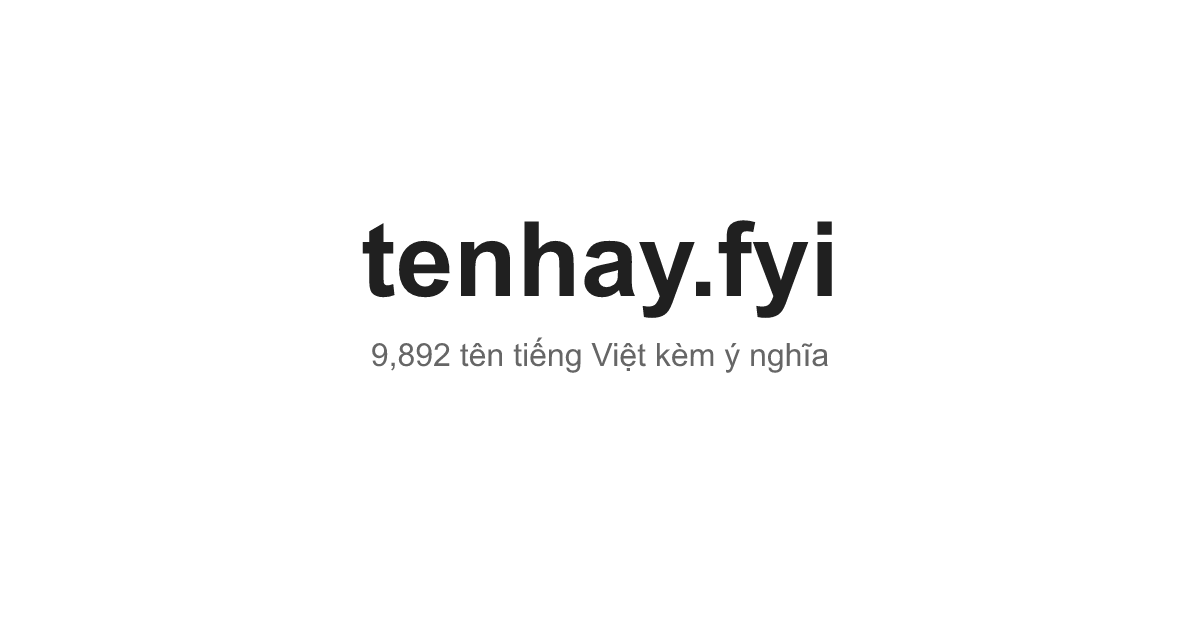
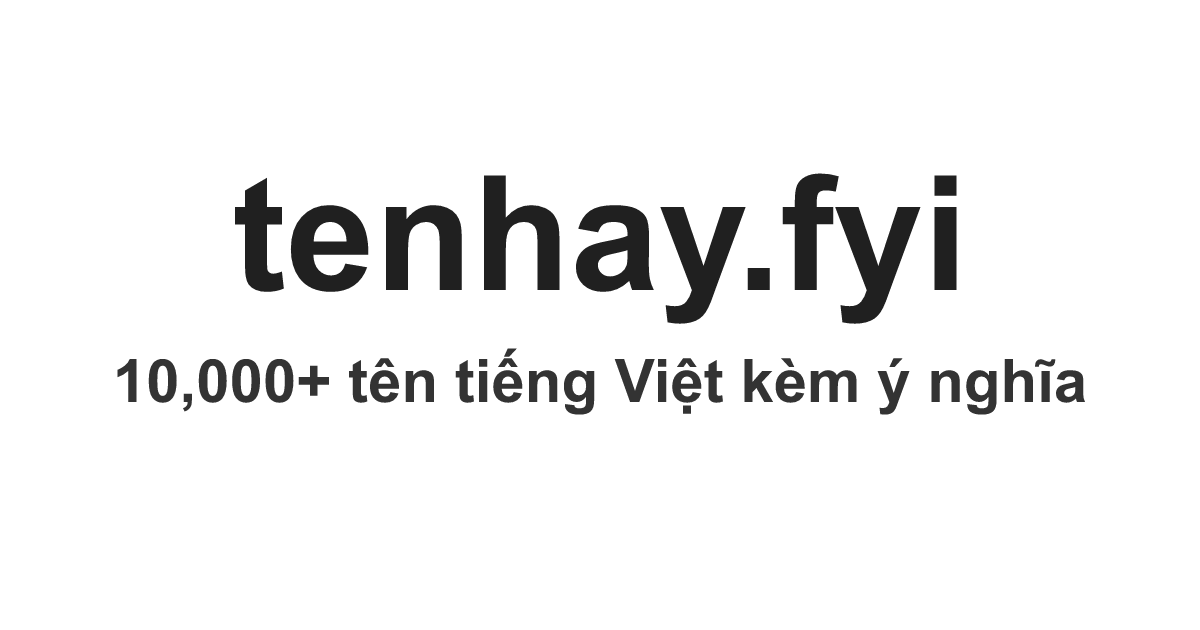
Simplify header and enlarge homepage share image

Changed region(s): [[0.185, 0.2714, 0.8017, 0.5127], [0.0925, 0.5429, 0.925, 0.6635]]

diff --git a/public/index.html b/public/index.html
@@ -13,17 +13,17 @@
   <meta property="og:type" content="website">
   <meta property="og:locale" content="vi_VN">
   <meta property="og:url" content="https://tenhay.fyi/">
-  <meta property="og:image" content="https://tenhay.fyi/share.png">
-  <meta property="og:image:secure_url" content="https://tenhay.fyi/share.png">
+  <meta property="og:image" content="https://tenhay.fyi/share.png?v=2">
+  <meta property="og:image:secure_url" content="https://tenhay.fyi/share.png?v=2">
   <meta property="og:image:type" content="image/png">
   <meta property="og:image:width" content="1200">
   <meta property="og:image:height" content="630">
-  <meta property="og:image:alt" content="tenhay.fyi và dòng “9,892 tên tiếng Việt kèm ý nghĩa” trên nền trắng.">
+  <meta property="og:image:alt" content="tenhay.fyi và dòng “10,000+ tên tiếng Việt kèm ý nghĩa” trên nền trắng.">
   <meta name="twitter:card" content="summary_large_image">
   <meta name="twitter:title" content="tenhay.fyi">
   <meta name="twitter:description" content="Tra cứu tên tiếng Việt và ý nghĩa. Ghép với họ, lọc và lưu tên yêu thích.">
-  <meta name="twitter:image" content="https://tenhay.fyi/share.png">
-  <meta name="twitter:image:alt" content="tenhay.fyi và dòng “9,892 tên tiếng Việt kèm ý nghĩa” trên nền trắng.">
+  <meta name="twitter:image" content="https://tenhay.fyi/share.png?v=2">
+  <meta name="twitter:image:alt" content="tenhay.fyi và dòng “10,000+ tên tiếng Việt kèm ý nghĩa” trên nền trắng.">
   <meta name="theme-color" content="#ffffff" media="(prefers-color-scheme: light)">
   <meta name="theme-color" content="#171717" media="(prefers-color-scheme: dark)">
   <meta name="application-name" content="tenhay.fyi">
@@ -33,14 +33,18 @@
   <link rel="icon" href="./favicon.svg" type="image/svg+xml" sizes="any">
   <link rel="apple-touch-icon" href="./apple-touch-icon.png" sizes="180x180">
   <link rel="manifest" href="./site.webmanifest">
-  <link rel="stylesheet" href="./style.css?v=28">
-  <script type="module" src="./app.mjs?v=28"></script>
+  <link rel="stylesheet" href="./style.css?v=30">
+  <script type="module" src="./app.mjs?v=30"></script>
 </head>
 <body>
   <a class="skip" href="#results">Đến danh sách tên</a>
   <div class="page">
     <header>
-      <div class="heading"><h1>tenhay.fyi</h1><span class="total"><span id="total-names">9,892</span> tên</span></div>
+      <h1>tenhay.fyi</h1>
+      <div class="header-actions">
+        <a class="text-button" href="https://github.com/quanganhdo/vietnamese-names">GitHub</a>
+        <button id="share-page" type="button" class="text-button share-action">Chia sẻ</button>
+      </div>
     </header>
     <main>
       <section class="filters" aria-label="Tìm và lọc tên">
@@ -83,7 +87,6 @@
         </aside>
       </div>
     </main>
-    <footer><p>Dữ liệu: Huggies, 2017; cập nhật một phần <span id="data-updated">13/10/2026</span>. <a href="https://github.com/quanganhdo/vietnamese-names">Nguồn dữ liệu</a></p><button id="share-page" type="button" class="text-button share-action">Chia sẻ</button></footer>
   </div>
   <dialog id="preview-modal" aria-labelledby="preview-heading"></dialog>
   <dialog id="share-modal" aria-labelledby="share-title">

diff --git a/public/style.css b/public/style.css
@@ -12,10 +12,8 @@ a { color: var(--link); text-underline-offset: 3px; }
 button:focus-visible, a:focus-visible, input:focus-visible, select:focus-visible { outline: 2px solid var(--link); outline-offset: 3px; }
 button:disabled { opacity: .5; cursor: default; }
 .page { max-width: 1360px; margin: auto; padding: 0 28px; }
-header { display: flex; align-items: center; justify-content: space-between; padding: 32px 0 24px; gap: 20px; }
-.heading { display: flex; align-items: baseline; gap: 16px; flex-wrap: wrap; }
+header { display: flex; align-items: center; justify-content: space-between; padding: 32px 0 24px; gap: 12px; }
 h1 { margin: 0; font-size: 25px; font-weight: 650; letter-spacing: -.5px; }
-.total { font-size: 14px; color: var(--muted); }
 .filters { display: grid; grid-template-columns: minmax(0, 2fr) minmax(0, 1fr) minmax(0, 1fr); gap: 0 24px; padding: 20px 0 23px; border-top: 1px solid var(--line); border-bottom: 1px solid var(--line); }
 .filters > div > label { display: block; margin-bottom: 7px; font-weight: 550; font-size: 16px; }
 .optional { font-weight: 400; color: var(--muted); }
@@ -55,8 +53,8 @@ legend { padding: 0; margin-bottom: 6px; color: var(--muted); font-size: 14px; }
 .empty { padding: 36px 0 44px; }
 .empty h2 { margin: 0; font-size: 17px; font-weight: 600; }
 .empty p { color: var(--muted); margin: 6px 0 14px; }
-footer { border-top: 1px solid var(--line); padding: 18px 0 32px; color: var(--muted); font-size: 14px; display: flex; flex-wrap: wrap; justify-content: space-between; gap: 6px 20px; }
-footer p { margin: 0; }
+.header-actions { display: flex; align-items: center; gap: 20px; flex-shrink: 0; }
+.header-actions > a { display: inline-flex; align-items: center; min-height: 44px; font-size: 16px; }
 .toast { position: fixed; bottom: 20px; left: 50%; transform: translateX(-50%); background: var(--text); color: var(--bg); border-radius: 3px; padding: 9px 15px; font-size: 14px; max-width: calc(100vw - 32px); }
 .sr-only, .skip { position: absolute; width: 1px; height: 1px; overflow: hidden; clip: rect(0,0,0,0); white-space: nowrap; }
 .skip:focus { width: auto; height: auto; clip: auto; top: 8px; left: 10px; background: var(--bg); padding: 10px; z-index: 10; }
@@ -64,7 +62,7 @@ footer p { margin: 0; }
 @media (max-width: 640px) {
   .page { padding: 0 18px; }
   header { padding: 23px 0 18px; }
-  .heading { gap: 4px 12px; }
+  .header-actions { gap: 14px; }
   h1 { font-size: 22px; }
   .filters { grid-template-columns: minmax(0, 1fr); gap: 15px; padding: 17px 0; }
   .filter-options { padding-top: 0; gap: 15px 24px; }

diff --git a/README.md b/README.md
@@ -10,13 +10,7 @@ npm run build
 npm test
 ```
 
-Trang tĩnh nằm trong `public/`. `public/names.json` và `public/data-info.json` được tạo khi build.
-
-## Dữ liệu cập nhật
-
-`data/huggies-current.json` chứa các cặp tên–ý nghĩa từ 23 bài viết Huggies, đọc ngày 13/10/2026. Mỗi nguồn có URL và thời điểm đọc; tên nguyên bản được giữ để đối chiếu. Đây là cập nhật một phần: các tên chưa đối chiếu vẫn dùng dữ liệu năm 2017.
-
-Build thay thế mô tả cũ cho những tên có dữ liệu mới, giữ nguyên lời của nguồn và gộp các mô tả khác nhau. Tổ hợp ba chữ chỉ được nhập khi nguồn liệt kê không có họ; những ví dụ họ tên bốn chữ chưa rõ ranh giới họ được giữ riêng trong `fullNameExamples`. Phạm vi nguồn và số lượng sau khi build nằm trong `public/data-info.json`.
+Trang tĩnh nằm trong `public/`.
 
 ## Dữ liệu gốc (2017)
 
